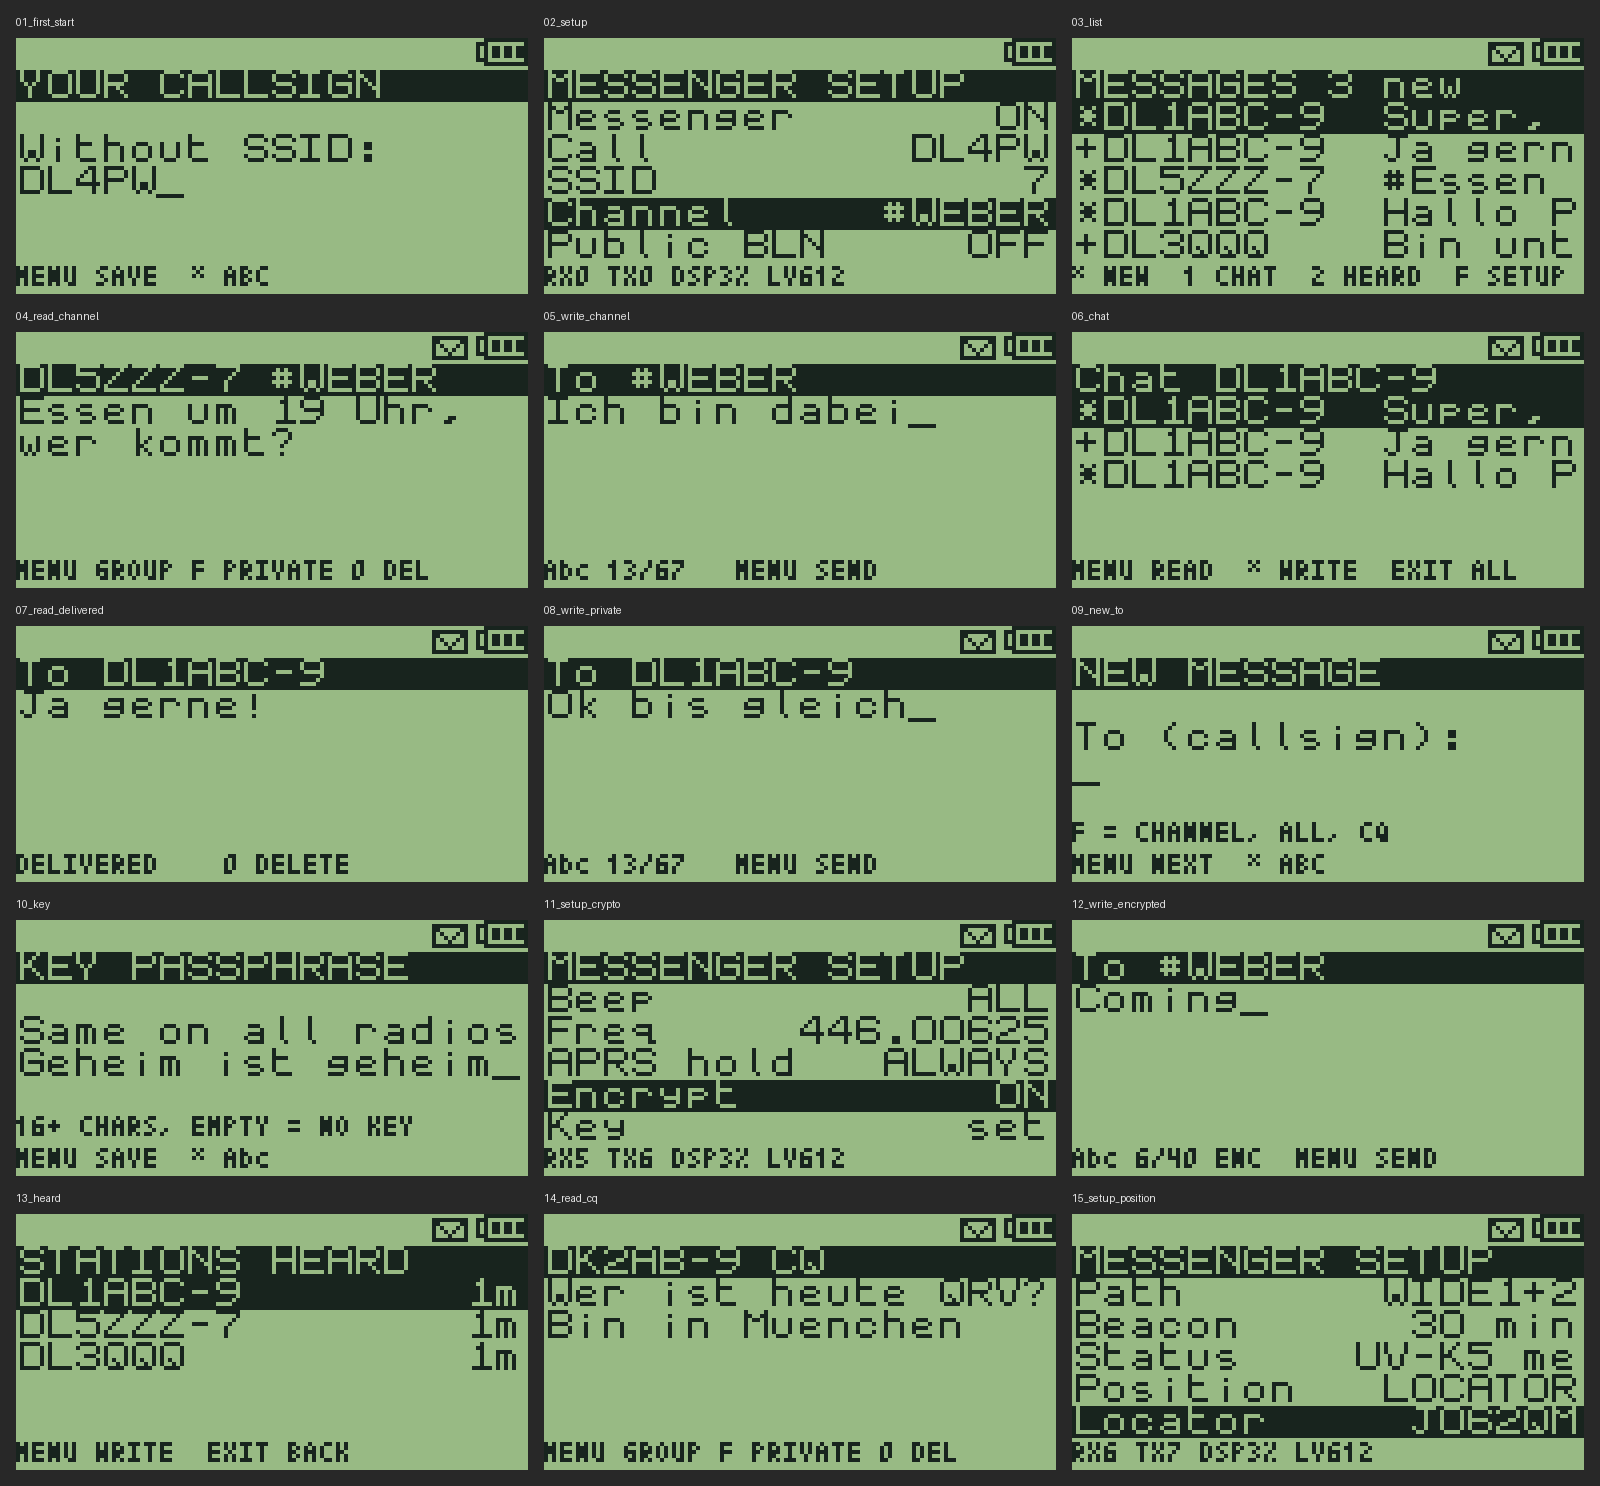
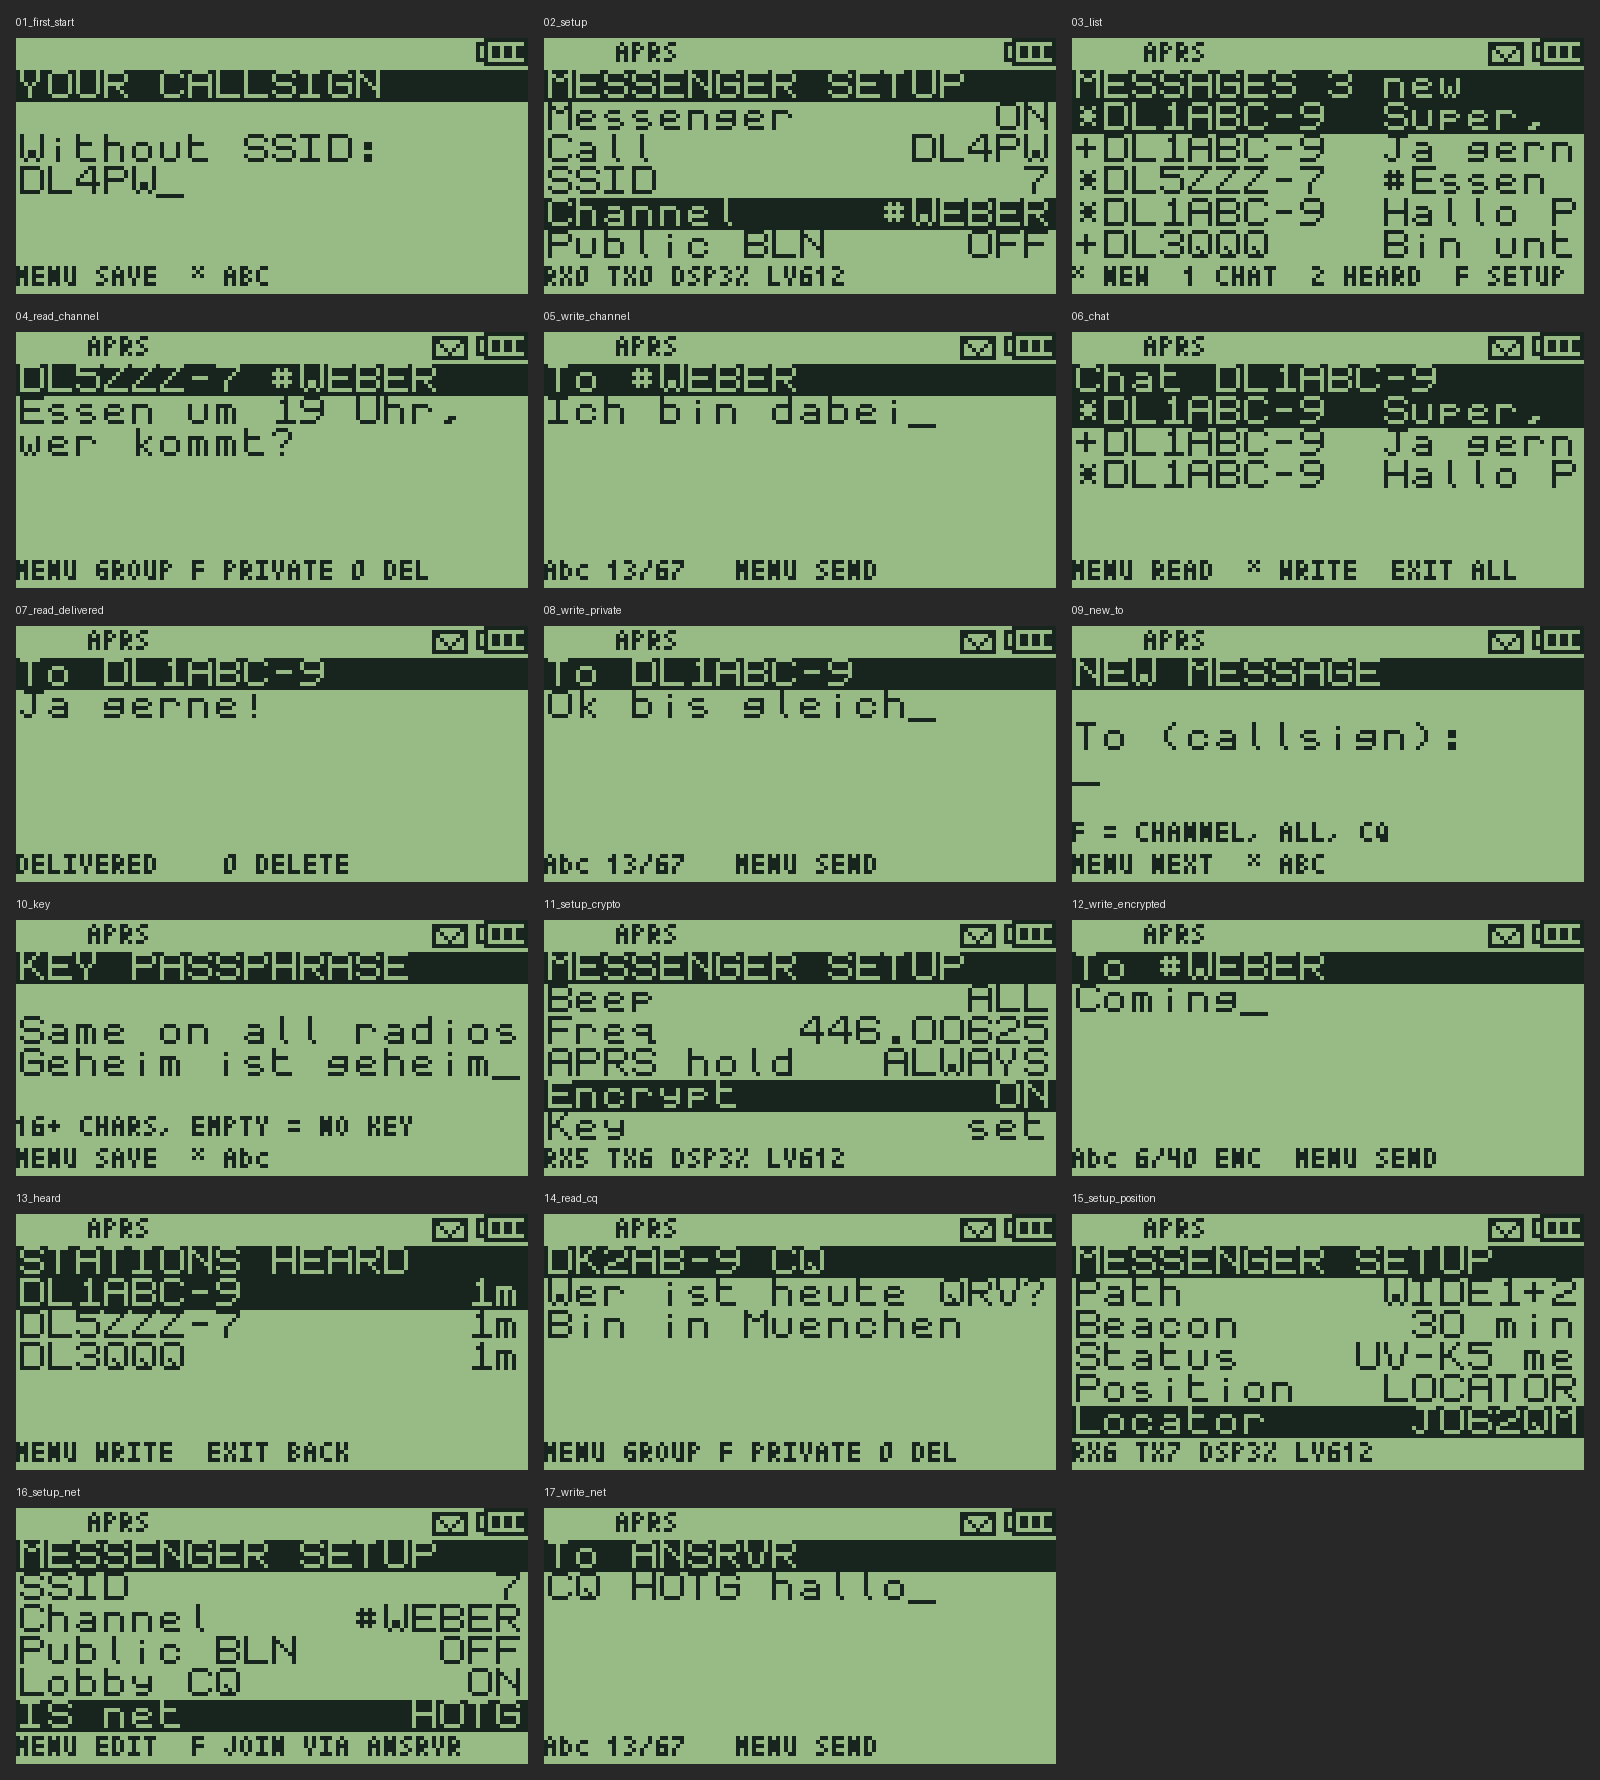
Messenger: status and tocall badges, all screens regenerated
- README: status badge "alpha"; badge and note for the requested tocall
  APDLPW (aprsorg/aprs-deviceid issue 402), APZK5M until it is assigned.
- Screen simulator draws the "APRS" status mark and two new screens (IS net
  setup, a message to ANSRVR); screens.png regenerated (17 screens).

Claude-Session: https://claude.ai/code/session_01FQn5b2oEocBdb1TXkEB4Ar

diff --git a/web/index.html b/web/index.html
@@ -55,7 +55,7 @@
     Encryption is forbidden on amateur bands; elsewhere follow your country's rules.
   </div>
 
-  <img src="screens.png" alt="The messages screens: setup, mailbox, channel, chat, writing, encryption, station list, lobby and position">
+  <img src="screens.png" alt="The messages screens: setup, mailbox, channel, chat, writing, encryption, station list, lobby, position and IS net">
 
   <h2>Flash it from the browser</h2>
   <div class="card">

diff --git a/App/messenger/test/ui_sim.c b/App/messenger/test/ui_sim.c
@@ -177,9 +177,21 @@ static void type(const char *seq)
 
 static const char *g_out;
 
+/* 3x5 text in the status line, one pixel down, as GUI_DisplaySmallest draws it */
+static void status_text(const char *s, uint8_t x)
+{
+    for (; *s; s++, x = (uint8_t)(x + 4u))
+        for (uint8_t i = 0; i < 3u; i++)
+            gStatusLine[x + i] |= (uint8_t)(gFont3x5[(uint8_t)(*s - 0x20)][i] << 1);
+}
+
+/* the status line as ui/status.c draws it here: "APRS" in the dual watch
+ * slot (x 18) while the messenger listens, the envelope, the battery */
 static void status_line(void)
 {
     memset(gStatusLine, 0, sizeof gStatusLine);
+    if (MSG_GetConfig()->enabled)
+        status_text("APRS", 18);
     static const uint8_t mail[9] = {0x7E, 0x46, 0x4A, 0x52, 0x62, 0x52, 0x4A, 0x46, 0x7E};
     static const uint8_t batt[13] = {0x3E, 0x22, 0x7F, 0x41, 0x5D, 0x5D, 0x41, 0x5D, 0x5D, 0x41, 0x5D, 0x5D, 0x7F};
     if (mbx_unread())
@@ -329,7 +341,28 @@ int main(int argc, char **argv)
     CHECK_STR(MSG_GetConfig()->locator, "JO62QM");
     CHECK_INT(MSG_GetConfig()->pos_mode, MSG_POS_LOCATOR);
     shot("15_setup_position");
+
+    /* back on 144.800 (no encryption on amateur bands), an IS net */
+    for (int i = 0; i < 8; i++)
+        key(KEY_UP);                   /* Freq */
+    key(KEY_F);                        /* next preset: 144.800 */
+    key(KEY_UP);
+    key(KEY_UP);                       /* IS net */
+    key(KEY_MENU);
+    type("44 666 8 4 ");               /* H O T G */
+    key(KEY_MENU);                     /* saved */
+    CHECK_STR(MSG_GetConfig()->net, "HOTG");
+    shot("16_setup_net");
     key(KEY_EXIT);
+
+    /* F in the recipient: #WEBER, #ALL, CQ, ANSRVR; the text starts "CQ HOTG " */
+    key(KEY_STAR);
+    for (int i = 0; i < 4; i++)
+        key(KEY_F);
+    key(KEY_MENU);
+    type("44 2 555 555 666 ");         /* hallo */
+    shot("17_write_net");
+    key_long(KEY_EXIT);
 
     /* Arrival while the empty mailbox is already open must be selectable. */
     MSG_ClearMailbox();

diff --git a/README.md b/README.md
@@ -1,8 +1,9 @@
 ## This fork: APRS messenger in your pocket
 
 <p>
-  <img src="https://img.shields.io/badge/status-alpha%20(untested%20on%20a%20radio)-orange" alt="status: alpha, untested on a radio">
+  <img src="https://img.shields.io/badge/status-alpha-orange" alt="status: alpha">
   <img src="https://img.shields.io/badge/platform-UV--K1%20%7C%20UV--K5%20V3-blue" alt="platform: UV-K1 | UV-K5 V3">
+  <a href="https://github.com/aprsorg/aprs-deviceid/issues/402"><img src="https://img.shields.io/badge/APRS%20tocall-APDLPW%20requested-yellow" alt="APRS tocall: APDLPW requested"></a>
   <a href="LICENSE"><img src="https://img.shields.io/badge/license-Apache--2.0-green" alt="license: Apache-2.0"></a>
 </p>
 
@@ -50,6 +51,9 @@ fork ([chirp/](chirp/)) for the side-key action MESSAGES. Details:
 
 The hardware parts have not run on a radio yet; everything else has host tests
 (`App/messenger/test/run.sh`). Transmitting APRS needs an amateur radio licence.
+The APRS device identifier (tocall) `APDLPW` is
+[requested](https://github.com/aprsorg/aprs-deviceid/issues/402); until it is
+assigned, the firmware sends `APZK5M` from the experimental range.
 Branch `messenger` holds this work; `main` follows the upstream
 [F4HWN Fusion firmware](https://github.com/armel/uv-k1-k5v3-firmware-custom).
 

diff --git a/App/messenger/TODO.md b/App/messenger/TODO.md
@@ -73,9 +73,10 @@ bench. Further candidates if needed: the audio scope
 
 ## Interop
 
-- Tocall: `APZK5M` (shared experimental range) until the owner's request at
-  github.com/aprsorg/aprs-deviceid (2026-11-01) is answered; then change
-  `MSG_TOCALL` and the docs, and make a release.
+- Tocall: `APDLPW` requested on 2026-11-01
+  (github.com/aprsorg/aprs-deviceid/issues/402). When it is assigned (maybe
+  another code): change `MSG_TOCALL`, the tests that expect `APZK5M`, the
+  badge and the notes in both READMEs and DESIGN.md, then make a release.
 - Send reply-acks (`{MM}AA`) to stations that use them: one frame less.
 
 ## Ideas, after v7 (size first)

diff --git a/App/messenger/DESIGN.md b/App/messenger/DESIGN.md
@@ -159,8 +159,9 @@ or too high, non-FM modulation, serial configuration in progress.
   0, no preamble in the decoder, 1.5 s since the last activity, no RX/TX/PTT/
   scan), then a random 0.7-3 s wait. At least 3 s between own frames; a token
   bucket allows 6 at once, then one per 30 s. Order: acks, messages, beacon.
-- **Destination** `APZK5M` (APZ = experimental), path `WIDE1-1,WIDE2-1` by
-  default.
+- **Destination** `APZK5M` (APZ = experimental) until the requested tocall
+  `APDLPW` is assigned (github.com/aprsorg/aprs-deviceid issue 402); path
+  `WIDE1-1,WIDE2-1` by default.
 
 ## Encryption
 
